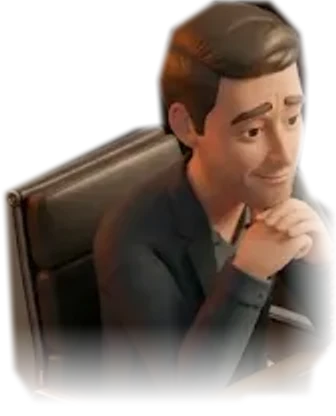
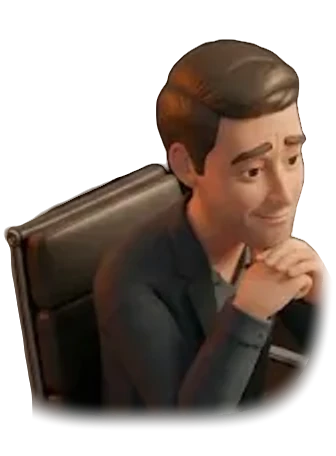
Stop the 3D story blinking and give the person a clean, true outline
- Remove the bloom pass: it left some frames empty, so the scene blinked off
  and on. Keep the number of lights fixed, prepare every object before the
  first frame, and redraw straight after any resize.
- Cut the person out with exact edges from rembg masks (scripts/person-mattes),
  with edge colours taken from the person, so there is no dark outline; taller
  cut-outs so the head is never cropped; soft rounded fades at the right and
  bottom; seated a little forward so the arms rest on the desk.

diff --git a/src/components/world/engine.ts b/src/components/world/engine.ts
@@ -16,14 +16,10 @@
  *   5  "The pile is gone": the desk is clear and the agent settles on it beside the person, who smiles.
  *
  * Everything is in one 3D space, so paper passes behind the pile and lands with shadows. Built in code (plus six small
- * cut-outs), so it loads fast. Phones get the light version (no shadows or glow); reduced motion gets still frames;
+ * cut-outs), so it loads fast. Phones get the light version (no shadows); reduced motion gets still frames;
  * computers without a graphics card, and a failed WebGL context, keep the poster.
  */
 import * as THREE from "three";
-import { EffectComposer } from "three/addons/postprocessing/EffectComposer.js";
-import { RenderPass } from "three/addons/postprocessing/RenderPass.js";
-import { UnrealBloomPass } from "three/addons/postprocessing/UnrealBloomPass.js";
-import { OutputPass } from "three/addons/postprocessing/OutputPass.js";
 import { RoomEnvironment } from "three/addons/environments/RoomEnvironment.js";
 import { createOffice, paperTexture } from "./office";
 import { createHelper, glowMaterial } from "./helper";
@@ -70,8 +66,8 @@ const STACKS = [-0.12, 0.13, 0.38, 0.63].map((x) => new THREE.Vector3(x, DESK.y,
 const DOOR = new THREE.Vector3(-0.78, 1.25, -2.9);
 const PILE_H = 1.15; // a full pile towers over the seated person
 const CARD = { w: 0.24, d: 0.31 };
-/** The person cut-out: where it stands (between the chair and the desk, so the desk hides what is below its top) and its size. */
-const PERSON = { at: new THREE.Vector3(-0.4, 1.07, -0.42), w: 0.72, h: 0.89 };
+/** The person cut-out: where it stands (just over the back of the desk, so their arms rest on it and the soft bottom of the cut-out melts onto the wood) and its size. */
+const PERSON = { at: new THREE.Vector3(-0.4, 1.113, -0.3), w: 0.72, h: 0.976 };
 
 /**
  * The camera for each step: always the artwork's angle (high, front left), moving only a little, so the room stays
@@ -177,18 +173,13 @@ export function createWorld(canvas: HTMLCanvasElement, opts: WorldOptions): Worl
   const faces = opts.people.map((src) => { const t = loader.load(src, () => still()); t.colorSpace = THREE.SRGBColorSpace; t.anisotropy = 4; return t; });
   const personGeo = new THREE.PlaneGeometry(PERSON.w, PERSON.h);
   const layer = () => {
-    const m = new THREE.Mesh(personGeo, new THREE.MeshBasicMaterial({ transparent: true, alphaTest: 0.02, depthWrite: false, toneMapped: false, color: new THREE.Color(0.92, 0.9, 0.88) }));
+    // Given an image from the start, so its shader never changes later (a change would rebuild it mid-story).
+    const m = new THREE.Mesh(personGeo, new THREE.MeshBasicMaterial({ map: faces[0], transparent: true, alphaTest: 0.01, depthWrite: false, toneMapped: false, color: new THREE.Color(0.92, 0.9, 0.88) }));
     m.position.copy(PERSON.at);
     m.renderOrder = 1;
     scene.add(m);
     return m;
   };
-  // A soft shadow just behind the person, so they sit in the room rather than on top of it.
-  const shadeTex = glowTexture("rgba(0,0,0,0.55)");
-  const shade = new THREE.Mesh(new THREE.PlaneGeometry(PERSON.w * 1.15, PERSON.h * 1.05), new THREE.MeshBasicMaterial({ map: shadeTex, transparent: true, depthWrite: false }));
-  shade.position.copy(PERSON.at).add(new THREE.Vector3(0.02, -0.03, -0.08));
-  shade.renderOrder = 0;
-  scene.add(shade);
   const faceBack = layer(), faceFront = layer();
   faceFront.renderOrder = 2;
   let shownFace = -1, faceFade = 1;
@@ -251,20 +242,15 @@ export function createWorld(canvas: HTMLCanvasElement, opts: WorldOptions): Worl
   focusRing.rotation.x = -Math.PI / 2;
   scene.add(focusRing);
 
-  let composer: EffectComposer | null = null;
-  if (!opts.lite) {
-    composer = new EffectComposer(renderer);
-    composer.addPass(new RenderPass(scene, camera));
-    composer.addPass(new UnrealBloomPass(new THREE.Vector2(256, 256), 0.3, 0.5, 0.92));
-    composer.addPass(new OutputPass());
-  }
+  // No glow pass (bloom): drawn as a second step over the scene, it left some frames empty, so the scene blinked off
+  // and on. The scene is drawn in one step instead; the warm light comes from the lights themselves.
 
   // ---- state ----
   let targetP = 0, p = 0;
   const pointer = { x: 0, y: 0, sx: 0, sy: 0 };
   let focus = -1;
   let active = true, destroyed = false, raf = 0, started = false;
-  let t = 0, last = performance.now(), frames = 0, acc = 0, fps = 60;
+  let t = 0, last = performance.now(), frames = 0, acc = 0, fps = 60, warmedUp = false;
   let width = 1, height = 1;
   const camPos = new THREE.Vector3(), camLook = new THREE.Vector3(), agentPos = new THREE.Vector3();
   const tPos = new THREE.Vector3(), tQuat = new THREE.Quaternion(), tColor = new THREE.Color(), euler = new THREE.Euler(), matrix = new THREE.Matrix4(), one = new THREE.Vector3(), yAxis = new THREE.Vector3(0, 1, 0);
@@ -282,7 +268,6 @@ export function createWorld(canvas: HTMLCanvasElement, opts: WorldOptions): Worl
     width = canvas.clientWidth || window.innerWidth;
     height = canvas.clientHeight || window.innerHeight;
     renderer.setSize(width, height, false);
-    composer?.setSize(width, height);
     camera.aspect = width / height;
     // Wide screens: shift the picture right so the scene sits beside the copy, not under it.
     const shift = camera.aspect > 1.2 ? Math.round(width * 0.17) : 0;
@@ -296,7 +281,13 @@ export function createWorld(canvas: HTMLCanvasElement, opts: WorldOptions): Worl
     window.clearTimeout(stillTimer);
     stillTimer = window.setTimeout(() => { if (active && !destroyed) draw(0); }, 120);
   };
-  const onResize = () => { resize(); still(); };
+  // Resizing wipes the canvas: draw again straight away, so the scene never blanks for a frame (phones resize the
+  // page each time the browser bar slides in or out).
+  const onResize = () => {
+    resize();
+    if (started && active && !opts.reduced && !destroyed) draw(0);
+    else still();
+  };
   window.addEventListener("resize", onResize);
   resize();
 
@@ -344,17 +335,16 @@ export function createWorld(canvas: HTMLCanvasElement, opts: WorldOptions): Worl
 
     // The person: the step's cut-out, facing the camera, dissolving in over the last in half a second.
     if (step0 !== shownFace) {
+      // Swapping one image for another keeps the same shader, so no rebuild is needed.
       (faceBack.material as THREE.MeshBasicMaterial).map = shownFace >= 0 ? faces[shownFace] : faces[step0];
-      (faceBack.material as THREE.MeshBasicMaterial).needsUpdate = true;
       (faceFront.material as THREE.MeshBasicMaterial).map = faces[step0];
-      (faceFront.material as THREE.MeshBasicMaterial).needsUpdate = true;
       faceFade = shownFace < 0 || opts.reduced ? 1 : 0;
       shownFace = step0;
     }
     faceFade = Math.min(1, faceFade + dt / 0.5);
     (faceFront.material as THREE.MeshBasicMaterial).opacity = faceFade;
     faceBack.visible = faceFade < 1;
-    [faceBack, faceFront, shade].forEach((m) => m.quaternion.copy(camera.quaternion));
+    [faceBack, faceFront].forEach((m) => m.quaternion.copy(camera.quaternion));
 
     // The agent: pops up, waves hello, then goes where the work is.
     agentAt(p, agentPos);
@@ -472,7 +462,7 @@ export function createWorld(canvas: HTMLCanvasElement, opts: WorldOptions): Worl
 
   function draw(dt: number) {
     step(dt);
-    if (composer) composer.render(); else renderer.render(scene, camera);
+    renderer.render(scene, camera);
   }
 
   function loop(now: number) {
@@ -482,14 +472,17 @@ export function createWorld(canvas: HTMLCanvasElement, opts: WorldOptions): Worl
     last = now;
     if (!document.hidden && active) {
       t += dt;
-      draw(dt);
-      // Adaptive quality: if 90 frames run under ~40 fps, render fewer pixels.
+      // Adaptive quality: if 90 frames run under ~40 fps, render fewer pixels. Changing the size wipes the canvas, so
+      // it happens before this frame is drawn (never between a frame and the screen), and skips the first second,
+      // while the browser is still busy starting up.
       acc += dt; frames++;
       if (frames === 90) {
         fps = frames / acc;
-        if (fps < 40 && dpr > 1) { dpr = Math.max(1, dpr - 0.25); renderer.setPixelRatio(dpr); resize(); }
+        if (warmedUp && fps < 40 && dpr > 1) { dpr = Math.max(1, dpr - 0.25); renderer.setPixelRatio(dpr); resize(); }
+        warmedUp = true;
         frames = 0; acc = 0;
       }
+      draw(dt);
     }
     if (!opts.reduced) raf = requestAnimationFrame(loop);
   }
@@ -524,14 +517,18 @@ export function createWorld(canvas: HTMLCanvasElement, opts: WorldOptions): Worl
       faces.forEach((f) => f.dispose());
       envTex.dispose();
       pmrem.dispose();
-      composer?.dispose();
       renderer.dispose();
     },
   };
 
   // Prepare every shader in the background first (doing it in one go would freeze the page), then draw the first
   // frame (also the only kind of frame under reduced motion).
+  // Everything is made visible while preparing, so nothing hidden at the start (the agent, the ticks in the logbook,
+  // the second face layer) has to be prepared later, mid-story, which would make the room blink.
+  const hidden: THREE.Object3D[] = [];
+  scene.traverse((o) => { if (!o.visible) { hidden.push(o); o.visible = true; } });
   renderer.compileAsync(scene, camera).catch(() => undefined).then(() => {
+    hidden.forEach((o) => { o.visible = false; });
     if (destroyed) return;
     started = true;
     draw(0.016);

diff --git a/src/components/world/helper.ts b/src/components/world/helper.ts
@@ -101,7 +101,9 @@ export function createHelper(size = 0.085) {
      * (world position, usually the camera); t: time in seconds.
      */
     update(presence: number, wave: number, busy: number, face: THREE.Vector3, t: number) {
-      group.visible = presence > 0.01;
+      // Only the body hides: its light stays in the scene (at zero), because adding or removing a light makes every
+      // surface in the room rebuild its shader, and the room vanishes for a frame while that happens.
+      bot.visible = presence > 0.01;
       // Pops in with a small bounce.
       const pop = presence < 1 ? presence * (1 + 0.25 * Math.sin(presence * Math.PI)) : 1;
       bot.scale.setScalar(size * Math.max(0.001, pop));

diff --git a/src/components/world/world-stage.tsx b/src/components/world/world-stage.tsx
@@ -63,7 +63,7 @@ export function WorldStage() {
     const software = /swiftshader|llvmpipe|software|basic render/i.test(String(info ? gl.getParameter(info.UNMASKED_RENDERER_WEBGL) : ""));
     gl.getExtension("WEBGL_lose_context")?.loseContext();
     if (software) { queueMicrotask(() => setState("failed")); return; }
-    // Phones and touch screens get the light version (no shadows or glow).
+    // Phones and touch screens get the light version (no shadows).
     const lite = window.matchMedia("(max-width: 768px), (hover: none)").matches;
 
     const progress = () => storyProgress(storyChapters());

diff --git a/docs/STORY-ART.md b/docs/STORY-ART.md
@@ -73,6 +73,12 @@ Tell me they are in `public/story/`. I will compress them, switch the story to t
 
 ## The person in the 3D story
 
-The home page story is a live 3D office staged like these images. The person in it is cut out of each step's image (with their chair), so their real face and mood show at every step. After changing any step image, run `node scripts/cut-person.mjs` to make the cut-outs again (`public/story/person-1.webp` to `person-6.webp`). The outlines in that script follow the person in the current images; a new image with the person in a different place needs its outline traced again.
+The home page story is a live 3D office staged like these images. The person in it is cut out of each step's image (with their chair), so their real face and mood show at every step: `public/story/person-1.webp` to `person-6.webp`, made by `node scripts/cut-person.mjs`.
 
-Sharper cut-outs come from sharper images: a 2x upscale of the step images (2048 px wide or more) makes the person crisp on large screens.
+The exact edge of the hair, face and shoulders comes from masks made with **rembg** (an open-source background-removal tool, MIT licence), saved in `scripts/person-mattes/`. They only need making again when a step image changes:
+
+1. Install rembg once, outside the project: `python3 -m venv ~/rembg && ~/rembg/bin/pip install "rembg[cpu]"`.
+2. For each changed image, crop the region x 532 to 700, y 160 to 388, enlarge it 4x, and run rembg with the model `isnet-general-use` (saved as `person-N.png`) and with `u2net_human_seg` (saved as `chair-N.png`, which keeps the chair).
+3. Run `node scripts/cut-person.mjs`.
+
+If the person sits somewhere else in a new image, the region and the traced outlines in the script need moving too. Sharper images (2048 px wide or more) give a crisper person on large screens.
